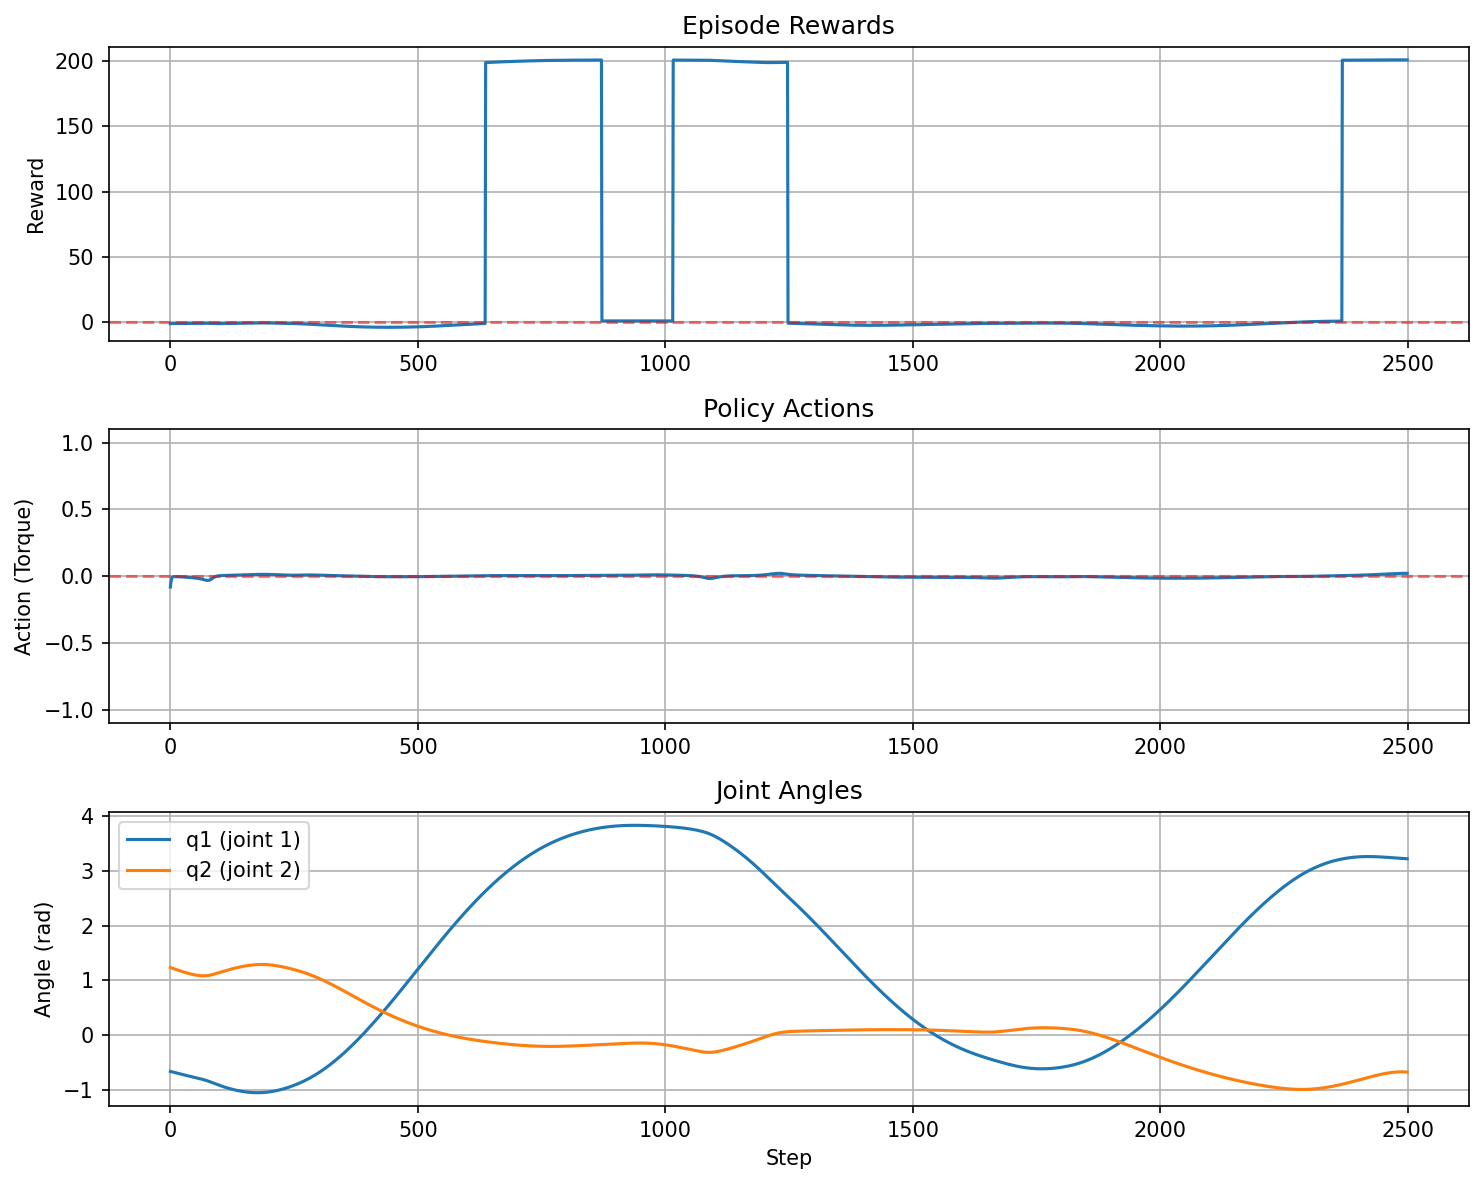
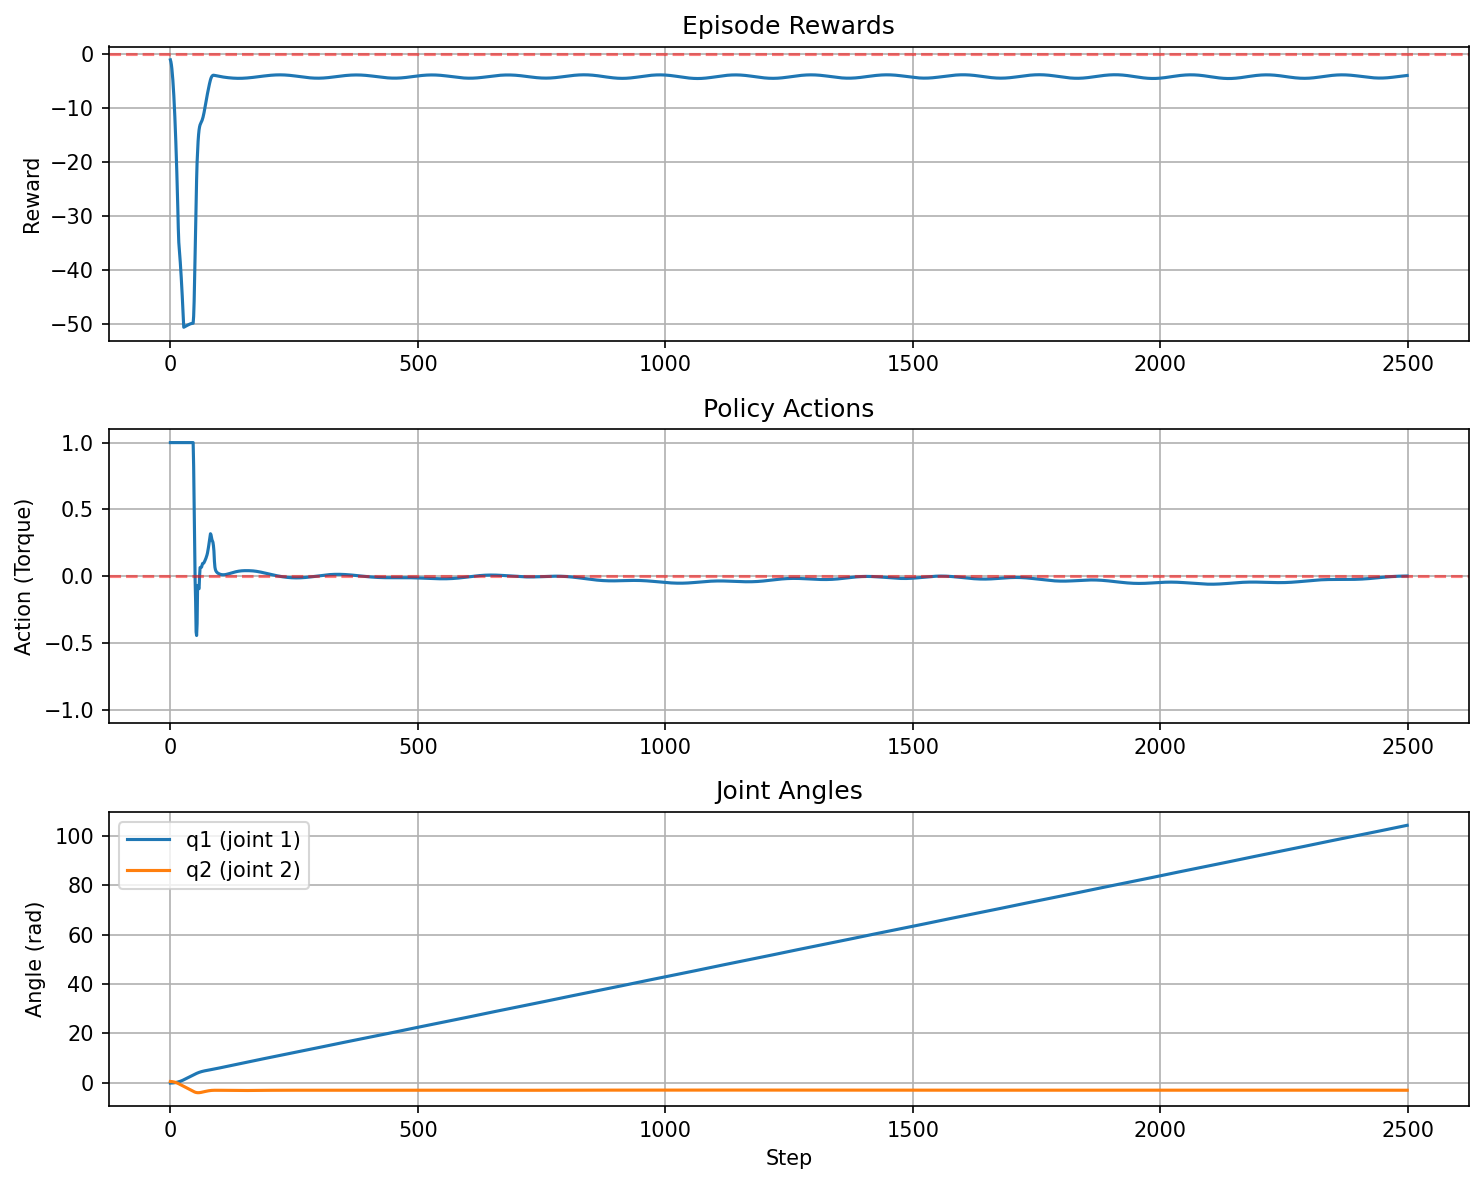
JAX acrobot not working

diff --git a/src/Env/Acrobot_SRK4_jax.py b/src/Env/Acrobot_SRK4_jax.py
@@ -225,7 +225,7 @@ class AcrobotEnv:
         h = -jnp.cos(ang1) - jnp.cos(ang1 + ang2)
         
         # Target height for swing-up (slightly below max to be achievable)
-        target_height = 1.68
+        target_height = 1.6
         
         # Dense reward: proportional to height (encourages upward motion)
         # Scale to roughly [-1, 1] range
@@ -239,7 +239,7 @@ class AcrobotEnv:
         speed_penalty = jnp.pow(state.u1,2) + jnp.pow(state.u2,2)
         
         # Combine rewards
-        reward = height_reward + success_bonus - 0.1*speed_penalty
+        reward = height_reward + success_bonus - 0.01*speed_penalty
         
         return reward
 

diff --git a/src/Agents/PPO_JAX.py b/src/Agents/PPO_JAX.py
@@ -324,7 +324,7 @@ def make_train(config):
 if __name__ == "__main__":
     config = {
         "LR": 3e-4,
-        "NUM_ENVS": 4096,  
+        "NUM_ENVS": 2048,  
         "NUM_STEPS": 256,
         "TOTAL_TIMESTEPS": 40e8,  
         "UPDATE_EPOCHS": 10,
